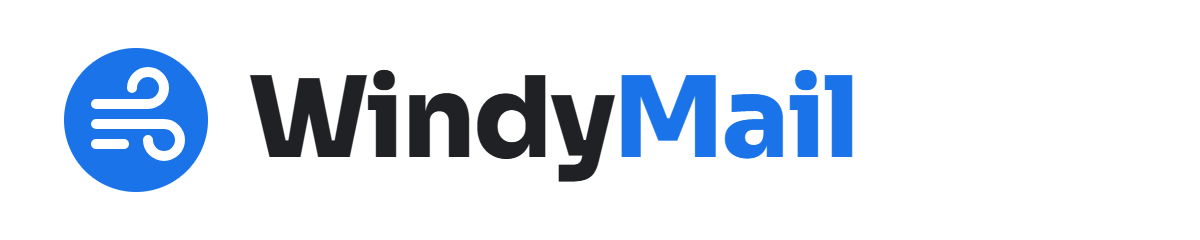
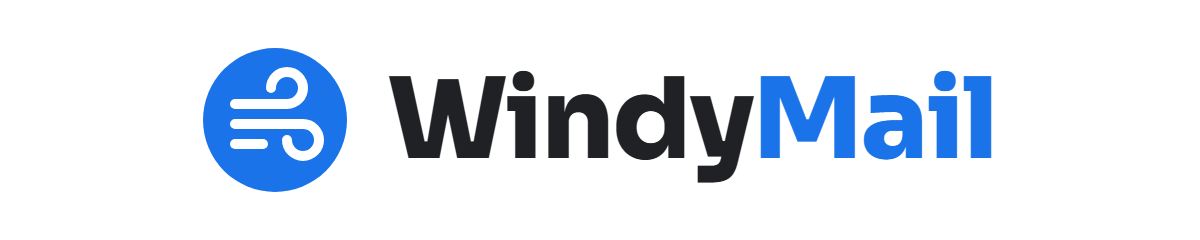
Card: wordmark centered, in its own section with a line under it

Changed region(s): [[0.0308, 0.2042, 0.8325, 0.8167]]

diff --git a/addon/Cards.js b/addon/Cards.js
@@ -61,9 +61,7 @@ var REPORT_BUTTON_COLOR = '#1A73E8';
 
 /** Shown with no email open: what WindyMail does and how to read a result. */
 function buildHomepageCard() {
-  var intro = CardService.newCardSection()
-    .addWidget(cardImage('wordmark', 'WindyMail'))
-    .addWidget(
+  var intro = CardService.newCardSection().addWidget(
       CardService.newTextParagraph().setText(
         'Open an email and WindyMail checks it for signs of phishing and scams, then tells you why.'
       )
@@ -79,16 +77,26 @@ function buildHomepageCard() {
         .setWrapText(true)
     );
   });
-  return CardService.newCardBuilder().addSection(intro).addSection(legend).build();
+  return CardService.newCardBuilder()
+    .addSection(wordmarkSection())
+    .addSection(intro)
+    .addSection(legend)
+    .build();
+}
+
+/**
+ * The wordmark in its own section, so Gmail draws a line under it. It is the
+ * header: CardService can't set a header font, so the brand font (Sora) comes as
+ * an image, centered in the image itself.
+ */
+function wordmarkSection() {
+  return CardService.newCardSection().addWidget(cardImage('wordmark', 'WindyMail'));
 }
 
 function buildResultCard(message, result) {
   var ui = VERDICT_UI[result.verdict];
 
-  // The wordmark is the header: CardService can't set a header font, so the brand
-  // font (Sora) comes as an image.
   var verdict = CardService.newCardSection()
-    .addWidget(cardImage('wordmark', 'WindyMail'))
     .addWidget(cardImage(result.verdict, ui.word + ' (' + ui.label + ')'))
     .addWidget(
       CardService.newDecoratedText().setTopLabel('Risk score').setText(scoreLine(result.score, ui))
@@ -120,7 +128,10 @@ function buildResultCard(message, result) {
     .addWidget(decorated('From', message.getFrom()))
     .addWidget(decorated('Subject', message.getSubject() || '(no subject)'));
 
-  var card = CardService.newCardBuilder().addSection(verdict).addSection(reasons);
+  var card = CardService.newCardBuilder()
+    .addSection(wordmarkSection())
+    .addSection(verdict)
+    .addSection(reasons);
   if (aiSection) card.addSection(aiSection);
   if (result.mode !== 'organization') card.addSection(buildPersonalReportSection());
   card.addSection(email);

diff --git a/addon/Config.js b/addon/Config.js
@@ -8,7 +8,7 @@ var BACKEND_BASE_URL = 'https://windymail-backend.onrender.com';
 var LOGO_URL = 'https://www.gstatic.com/images/icons/material/system/2x/air_googblue_48dp.png';
 
 /** Bump when a card image in backend/static changes, so Gmail's image cache refreshes. */
-var ASSET_VERSION = '3';
+var ASSET_VERSION = '4';
 
 /** Upper bounds matching the backend request schema (backend/app/models.py). */
 var LIMITS = {

diff --git a/docs/development-layers.md b/docs/development-layers.md
@@ -453,6 +453,7 @@ Rules: CardService only; the verdict never relies on color alone (word + shape);
 - [x] Backend serves the card images from a fixed list (`GET /static/{name}`, anything else 404, no token: Gmail fetches them); `ASSET_VERSION` in the add-on refreshes Gmail's image cache. 9 new tests (497 total); add-on checks 52
 - [x] Round 2: banners narrowed from 600 to 520 px on the canvas (word and picture about 15% larger in Gmail), rendered at 2×; `ASSET_VERSION` 2
 - [x] Tried: Report button centered in the card body with Columns; Gmail's side panel draws no Columns (button and note vanished), and footer buttons can't be centered. Back to the fixed footer, button color set directly (the top bar is white)
+- [x] Wordmark centered in its image and in its own section (a line under it), on the result card and the homepage; `ASSET_VERSION` 4
 - [x] Header in the brand font (font option 1, Sora): the wordmark image replaces the text header on the result card; the verdict word is back in the score line as the text fallback. Top bar white (`primaryColor`), buttons blue (`secondaryColor`)
 - [x] Card matched to mockup panel A: header with logo, "WindyMail" and the verdict word (the text fallback if the banner doesn't load); score line without the word; organization mode: no report section, a one-line note above the footer button. Add-on checks 54
 
